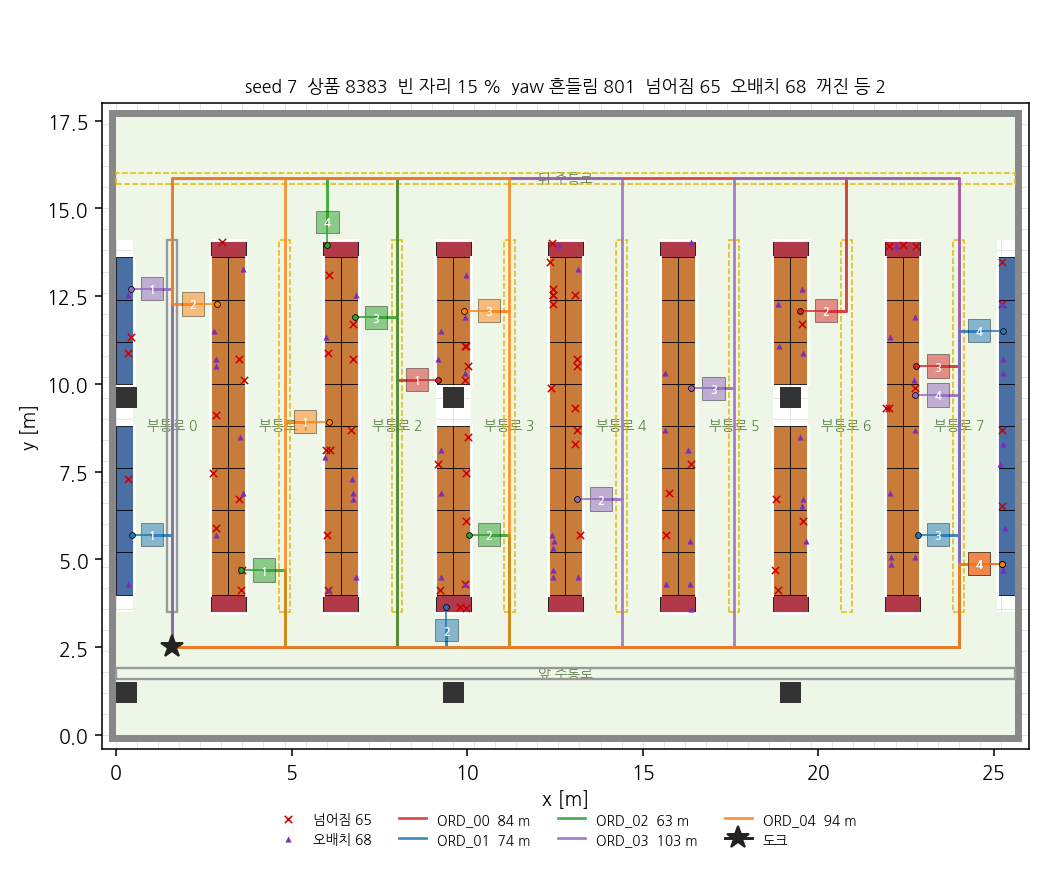
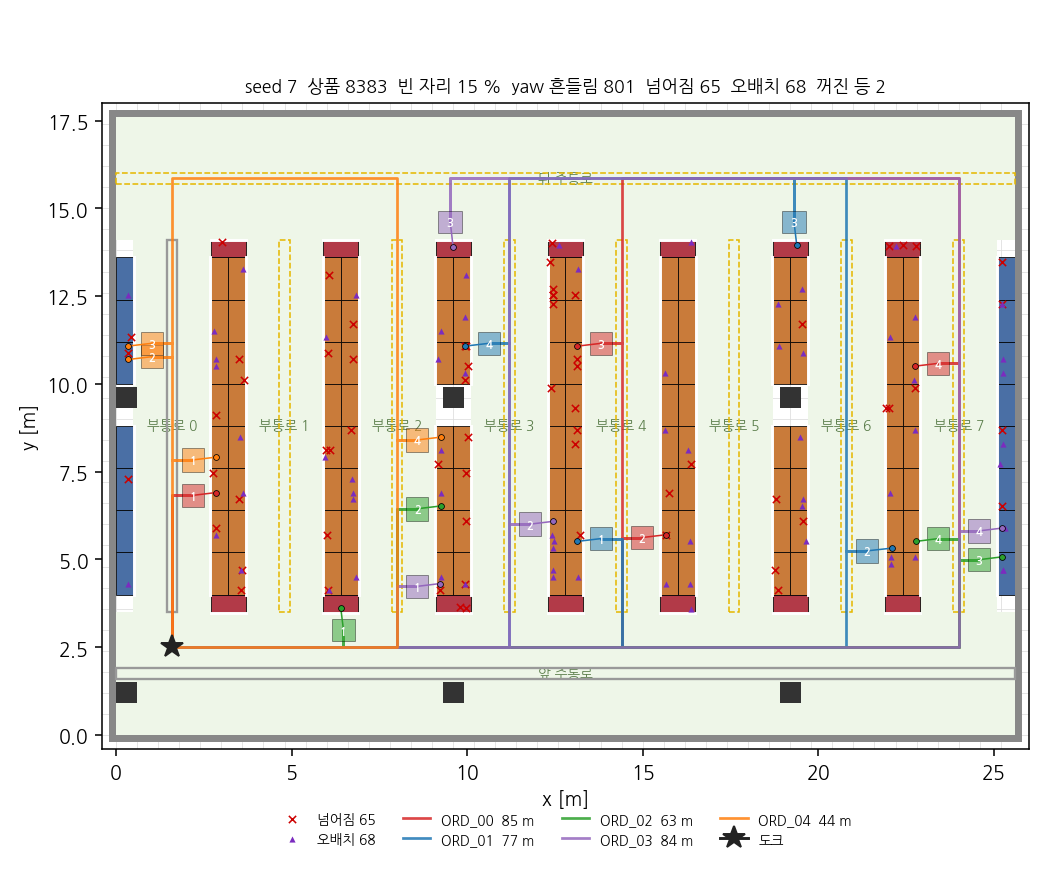
팔 도달 스터디 + Franka 사양 + 시나리오 파지 가능 필터, 주문 5건 주행 배치
- tools/reach_study.py: 어깨 높이 × 도달 반경 → 닿는 상품 비율 (docs/img/reach_study.png)
- RobotSpec: Franka Panda on Carter 상판 (베이스 dz 0.677, 어깨 +0.333, 도달 0.855, 그리퍼 0.08)
- scenario: 정차 자세를 팔 베이스 위치 기준으로, 그리퍼 폭 안 상품만 주문에
- seed 7 주문 5건 주행 배치 (팔 없음): 정차 오차 평균 3.4 cm / 최대 4.3 cm, 충돌 0

Claude-Session: https://claude.ai/code/session_011ZrkTYrTQ9K43aGFDEz2gj

diff --git a/tools/reach_study.py b/tools/reach_study.py
@@ -1,0 +1,90 @@
+"""팔 어깨 높이·도달 반경에 따라 맨 앞 상품 중 몇 %에 닿는지 본다.
+
+    python -m tools.reach_study out/store_stocked.usda --out docs/img/reach_study.png
+
+정차 자세는 scenario.pick_pose 와 같다 (진열대 앞면에서 standoff, 왼쪽 마운트).
+상품 좌표는 USD 에서 되읽는다. 결과는 마운트 높이(x) × 도달 반경(선) 그래프와
+단별 표. 팔·리프트 사양을 이 숫자로 정한다 — 감으로 정하지 않기 위한 도구.
+"""
+
+from __future__ import annotations
+
+import argparse
+from dataclasses import replace
+from pathlib import Path
+
+import matplotlib
+matplotlib.use("Agg")
+import matplotlib.pyplot as plt
+import numpy as np
+from pxr import Usd, UsdGeom
+
+from scene.constants import ROBOT, SHELF, STORE
+from scene.scenario import pick_pose
+from scene.store import placements
+from tools.plan_store import _have  # 한글 폰트 설정 부수효과
+
+HEIGHTS = np.round(np.arange(0.30, 1.21, 0.05), 2)
+REACHES = [0.60, 0.85, 1.00, 1.30]          # [표준] UR3e 0.5 / UR5e 0.85 / Franka 0.855 / UR10e 1.3 급
+
+
+def main() -> None:
+    ap = argparse.ArgumentParser(description=__doc__)
+    ap.add_argument("usd", nargs="?", default="out/store_stocked.usda")
+    ap.add_argument("--out", default="out/reach_study.png")
+    args = ap.parse_args()
+
+    stage = Usd.Stage.Open(args.usd)
+    cache = UsdGeom.BBoxCache(Usd.TimeCode.Default(), [UsdGeom.Tokens.default_])
+    units = {u["path"]: u for u in placements(STORE, SHELF)}
+    centers, levels = [], []
+    for path, unit in units.items():
+        stock = stage.GetPrimAtPath(f"{path}/Stock")
+        if not stock:
+            continue
+        for prim in stock.GetChildren():
+            if prim.GetAttribute("stock:facing").Get() != 0:
+                continue
+            r = cache.ComputeWorldBound(prim).ComputeAlignedRange()
+            lo, hi = r.GetMin(), r.GetMax()
+            centers.append((unit, tuple((lo[i] + hi[i]) / 2 for i in range(3))))
+            levels.append(prim.GetAttribute("stock:level").Get())
+    levels = np.array(levels)
+    n = len(centers)
+    print(f"맨 앞 상품 {n}개, 단 0~{levels.max()}")
+
+    # 마운트→상품 거리는 높이에만 의존하므로 한 번 계산해 두고 반경만 바꾼다
+    dist = np.zeros((len(HEIGHTS), n))
+    for hi_, h in enumerate(HEIGHTS):
+        rb = replace(ROBOT, arm_base_dz=float(h) - ROBOT.arm_shoulder_dz)   # x 축 = 어깨 높이
+        for j, (unit, c) in enumerate(centers):
+            dist[hi_, j] = pick_pose(unit, c, rb)["reach_m"]
+
+    fig, ax = plt.subplots(figsize=(7, 4))
+    for r in REACHES:
+        frac = (dist <= r).mean(axis=1) * 100
+        ax.plot(HEIGHTS, frac, marker="o", ms=3, label=f"도달 {r:.2f} m")
+        best = int(np.argmax(frac))
+        print(f"  도달 {r:.2f} m: 최고 {frac[best]:.0f} % @ 마운트 {HEIGHTS[best]:.2f} m   (어깨 1.00 m 에서 {frac[HEIGHTS.tolist().index(1.0)]:.0f} %)")
+    ax.axvline(ROBOT.arm_mount_z(), color="#888", ls="--", lw=0.8)
+    ax.text(ROBOT.arm_mount_z() + 0.01, 3, f"현재 어깨 {ROBOT.arm_mount_z():.2f} m\n(Franka on Carter 상판)", fontsize=8, color="#666")
+    ax.set_xlabel("팔 어깨(도달 구 중심) 높이 [m]"); ax.set_ylabel("닿는 맨 앞 상품 [%]")
+    ax.set_ylim(0, 102); ax.grid(alpha=0.3); ax.legend(fontsize=8)
+    ax.set_title(f"정차 standoff {ROBOT.pick_standoff} m, 진열대 {SHELF.n_levels}단 (벽면 {STORE.wall_unit_levels}단)", fontsize=9)
+    fig.tight_layout()
+    Path(args.out).parent.mkdir(parents=True, exist_ok=True)
+    fig.savefig(args.out, dpi=130)
+    print(f"저장: {args.out}")
+
+    # 단별 표: 도달 0.85 에서 마운트 몇 개 값
+    print("\n단별 도달률 % (도달 0.85 m)")
+    hs = [0.35, 0.60, 0.80, 1.00]
+    print("  단   " + "".join(f"  h={h:.2f}" for h in hs))
+    for lv in range(levels.max() + 1):
+        m = levels == lv
+        row = [(dist[HEIGHTS.tolist().index(h)][m] <= 0.85).mean() * 100 for h in hs]
+        print(f"  {lv:<3} " + "".join(f"  {v:6.0f}" for v in row) + f"   ({m.sum()}개)")
+
+
+if __name__ == "__main__":
+    main()

diff --git a/scene/scenario.py b/scene/scenario.py
@@ -239,10 +239,14 @@ def pick_pose(unit: dict, item_center, robot: RobotSpec = ROBOT) -> dict:
     px = fx if nx else cx
     py = fy if ny else cy
     off = robot.pick_standoff + robot.base_w / 2
-    rx, ry = px - nx * off, py - ny * off
     left = (nx, ny)
-    yaw = math.degrees(math.atan2(-left[0], left[1]))   # heading = left 를 -90° 돌린 것
-    mount = (rx + nx * robot.arm_mount_dy, ry + ny * robot.arm_mount_dy, robot.base_h)
+    fwd = (left[1], -left[0])                     # heading = left 를 -90° 돌린 것
+    # 팔 베이스가 본체 중심에서 (arm_base_dx 앞, arm_mount_dy 왼쪽) 에 있으므로, 어깨가 상품 앞에 오도록 본체를 뒤로 물린다
+    rx = px - nx * off - fwd[0] * robot.arm_base_dx
+    ry = py - ny * off - fwd[1] * robot.arm_base_dx
+    yaw = math.degrees(math.atan2(fwd[1], fwd[0]))
+    mount = (rx + fwd[0] * robot.arm_base_dx + nx * robot.arm_mount_dy,
+             ry + fwd[1] * robot.arm_base_dx + ny * robot.arm_mount_dy, robot.arm_mount_z())
     reach = math.dist(mount, (cx, cy, cz))
     return {
         "x": round(rx, 4), "y": round(ry, 4), "yaw_deg": round(yaw, 1),
@@ -400,6 +404,12 @@ def generate(
             center = tuple((lo[i] + hi[i]) / 2 for i in range(3))
             unit = units[unit_path]
             pose = pick_pose(unit, center)
+            # 파지: 손가락이 통로 방향으로 닫힌다 (앞 상품 뒤에는 다음 상품이 붙어 있어 깊이 방향으로는 못 잡는다).
+            # 통로 방향 폭 = 진열대 로컬 y 폭. 진열대 회전이 90° 배수라 월드 AABB 에서 바로 읽는다
+            along = 1 if unit_normal(unit)[0] else 0
+            width_along = hi[along] - lo[along]
+            pose["graspable"] = width_along <= ROBOT.graspable_width()
+            pose["grasp_width_m"] = round(width_along, 4)
             candidates.append(
                 {
                     "prim": str(prim.GetPath()),
@@ -419,11 +429,12 @@ def generate(
                 }
             )
     reachable = [c for c in candidates if c["stop"]["reachable"]]
+    pickable = [c for c in reachable if c["stop"]["graspable"]]
     by_product: dict[str, list[dict]] = {}
-    for c in reachable:
+    for c in pickable:
         by_product.setdefault(c["product"], []).append(c)
 
-    # 주문 — 도달 가능한 상품 중에서. 한 주문 안에서는 상품이 겹치지 않는다
+    # 주문 — 도달 가능하고 그리퍼에 들어가는 상품 중에서. 한 주문 안에서는 상품이 겹치지 않는다
     router = Router()
     dock = (router.aisle_x[0], router.main_y[0])
     orng = random.Random(seed * 7919 + 3)
@@ -462,6 +473,9 @@ def generate(
             **pstats,
             "front_items": len(candidates),
             "reachable_front_items": len(reachable),
+            "graspable_front_items": sum(1 for c in candidates if c["stop"]["graspable"]),
+            "pickable_front_items": len(pickable),
+            "arm_mount_z": round(ROBOT.arm_mount_z(), 3),
             "unreachable_by_level": dict(sorted(unreach_by_level.items())),
             "lights_off": sum(1 for v in lights.values() if v["scale"] == 0),
         },
@@ -477,7 +491,8 @@ def describe(sc: dict) -> str:
     lines = [
         f"  상품 {s['items']}개 / {s['products']}종   슬롯열 {s['columns']}  →  yaw 흔들림 {s['jittered']}  넘어짐 {s['fallen']}  오배치 {s['misplaced']}  (facing 탈락 {s['dropped_facings']})",
         f"  조명 {len(sc['lights'])}개 중 꺼짐 {s['lights_off']}",
-        f"  맨 앞 상품 {s['front_items']}개 중 팔 도달 {s['reachable_front_items']}개  (미도달 단별 {s['unreachable_by_level']})",
+        f"  맨 앞 상품 {s['front_items']}개 중 팔 도달 {s['reachable_front_items']}개 (어깨 {s['arm_mount_z']} m, 미도달 단별 {s['unreachable_by_level']}),"
+        f" 그리퍼 폭 안 {s['graspable_front_items']}개, 둘 다 {s['pickable_front_items']}개",
     ]
     for o in sc["orders"]:
         names = ", ".join(l["product"].split("_", 1)[1] for l in o["lines"])

diff --git a/scene/constants.py b/scene/constants.py
@@ -302,15 +302,31 @@ class RobotSpec:
     w_max: float = 1.0           # [설계] 회전 최고 각속도 rad/s
 
     # 양팔 설계 / 한 팔 구현 — 마운트 자리는 처음부터 둘 다 잡아둔다.
-    arm_mount_dy: float = 0.18   # [설계] 중심선에서 좌우 팔 마운트까지
+    arm_mount_dy: float = 0.12   # [설계] 중심선에서 왼쪽으로 팔 베이스까지 (상판 반폭 0.29 안, 베이스 반경 0.1)
     n_arms_built: int = 1        # [설계] 지금 실제로 붙이는 팔 수
 
     safety_margin: float = 0.15  # [설계] 장애물과 유지할 편측 여유 (내비게이션 inflation)
 
-    # 피킹 자세 — scenario.py 가 정차 위치와 도달 가능성을 이걸로 계산한다.
-    # 팔은 본체 왼쪽(+Y) 마운트에 있고, 정차할 때 왼쪽이 진열대를 본다.
-    arm_reach: float = 0.85      # [잠정] 마운트에서 그리퍼 끝까지 도달 반경 (UR5e 급 850 mm)
+    # 팔 — Franka Panda 를 Carter 상판에 얹는다. 정차할 때 왼쪽(+Y)이 진열대를 본다.
+    # 도달 모델: 어깨(panda_joint1 축) 를 중심으로 반경 arm_reach 인 구. tools/reach_study.py 로
+    # 마운트 높이를 훑어 봤다 (docs/img/reach_study.png). 어깨 0.85 m 가 최적(90 %)이지만 Carter
+    # 상판이 0.667 m 라 그 위에 바로 얹으면 어깨가 1.0 m — 바닥 데크(0단) 상품은 대부분 못 닿는다.
+    # 리프트 없이 가는 대신 그 사실을 통계로 남긴다.
+    arm_asset: str = "/Isaac/Robots/FrankaRobotics/FrankaPanda/franka.usd"  # [표준]
+    arm_base_dx: float = -0.08   # [설계] 팔 베이스의 본체 중심 기준 전후 위치 (상판 가운데, 카메라 마운트 뒤)
+    arm_base_dz: float = 0.667 + 0.01   # [표준] Carter 상판(에셋 chassis AABB 위 0.412 + spawn 0.255) + 틈 1 cm
+    arm_shoulder_dz: float = 0.333      # [표준] Franka 베이스 → panda_joint1 축 (어깨) 높이
+    arm_reach: float = 0.855     # [표준] Franka 도달 반경 (어깨 기준)
+    gripper_max_w: float = 0.08  # [표준] Franka 핸드 최대 벌림. 파지 폭 상한 (여유 두고 0.075 까지 집는다)
+    gripper_tcp_dz: float = 0.1034  # [표준] panda_hand → 손끝 사이(right_gripper 프레임)
     pick_standoff: float = 0.20  # [설계] 정차 시 본체 측면과 진열대 앞면 사이 거리
+
+    def arm_mount_z(self) -> float:
+        """도달 구의 중심(어깨) 높이. scenario.pick_pose 가 쓴다."""
+        return self.arm_base_dz + self.arm_shoulder_dz
+
+    def graspable_width(self) -> float:
+        return self.gripper_max_w - 0.005
 
     def turn_radius(self) -> float:
         """제자리 회전 시 필요한 반경 (차동구동 가정)."""
